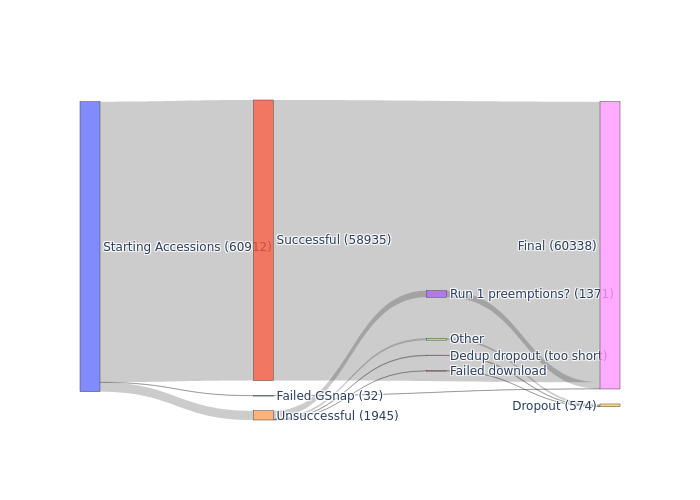
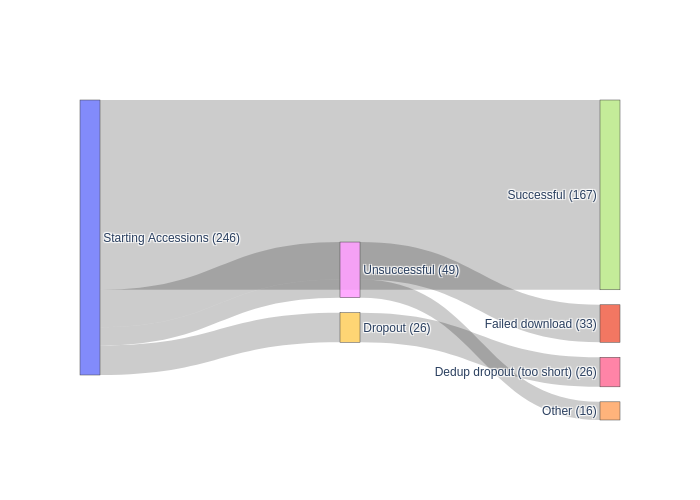
update run dropout stats processing scripts

Changed region(s): [[0.09, 0.18, 0.9, 0.84], [0.21, 0.66, 0.3, 0.69], [0.12, 0.18, 0.21, 0.21]]

diff --git a/src/figures/sankey.py b/src/figures/sankey.py
@@ -1,25 +1,41 @@
 import plotly.graph_objects as go
+import pandas as pd
+
+# starting_runs,successful,download_fail,corrupt_file,dedup_fail,gsnap_fail,other,preempted,dropout,unsuccessful
+d = pd.read_csv("sankey.csv", header=0).to_numpy()[0]
 
 NODES = dict( #    0                 1                          2        3       4           5
-    label = ["Starting Accessions\n(60912)", # 0
-             "Successful\n(58935)", # 1
-             "Failed GSnap\n(32)", # 2
-             "Run 1 preemptions?\n(1371)", # 3
-             "Unsuccessful\n(1945)", # 4
-             "Dedup dropout (too short)", # 5
-             "Failed download", # 6
-             "Other", # 7
-             "Final\n(60338)", # 8
-             "Dropout\n(574)", # 9
+    label = [f"Starting Accessions\n({d[0]})", # 0
+             f"Failed download\n({d[2]})", # 1
+             f"Corrupt file?\n({d[3]})", # 2
+             f"Failed GSnap\n({d[5]})", # 3
+             f"Other\n({d[6]})", # 4
+             f"Run 1 preemptions?\n({d[7]})", # 5
+             f"Dedup dropout (too short)\n({d[4]})", # 6
+             f"Successful\n({d[1]})", # 7
+             f"Unsuccessful\n({d[9]})", # 8
+             f"Dropout\n({d[8]-d[9]})", # 9
              ],
     pad = 15,
     thickness = 20,
-    ) # color = ["seagreen","dodgerblue","orange", "gold", "silver","brown" ],
-LINKS = dict(   source = [     0,  0,    0,  4,    4,  4,  4, 1, 2, 3, 5, 6, 7 ], # The origin or the source nodes of
-                target = [     1,  2,    4,  3,    5,  6,  7, 8, 8, 8, 9, 9, 9 ], # The destination or the target
-                value =  [ 58935, 32, 1945, 1371, 112, 57, 405, 58935, 32, 1371, 112, 57, 405 ], # The width (quantity) of the links
-                # Color of the links
-             )
+    )
+LINKS = dict(
+    source = [ 0,  0, 0, 0, 0, 0, 8, 8, 8, 8, 8,  0, 9 ], # The origin or source nodes of
+    target = [ 7,  8, 8, 8, 8, 8, 1, 2, 3, 4, 5,  9, 6 ], # The dest or target
+    # d.download_fail, d.corrupt_file, d.gsnap_fail, d.other, d.preempted, d.dedup_fail,
+    # d.successful, d.download_fail, d.corrupt_file, d.gsnap_fail, d.other, d.preempted,
+    # d.dedup_fail
+    # success,
+    # download, corrupt, gsnap, other, preempted
+    # download, corrupt, gsnap, other, preempted
+    # 
+    value = [ d[1],
+              d[2], d[3], d[5], d[6], d[7],
+              d[2], d[3], d[5], d[6], d[7],
+              d[4], d[4] ],
+    # Color of the links
+    # color = ["seagreen","dodgerblue","orange", "gold", "silver","brown" ],
+)
 data = go.Sankey(node = NODES, link = LINKS)
 fig = go.Figure(data)
 fig.write_image("sankey.png")
